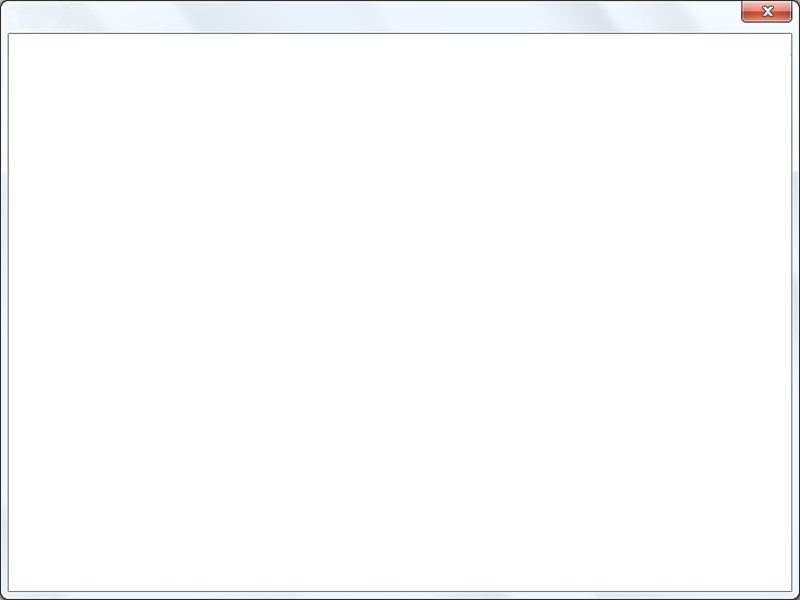
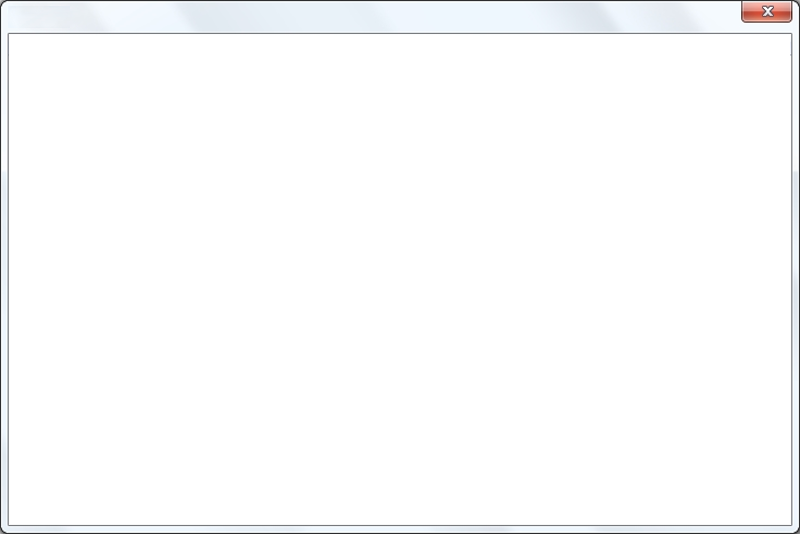
CSS and page behaviour changes

Changed region(s): [[0.0, 0.9588, 1.0, 1.0], [0.0312, 0.0, 1.0, 0.0899]]

diff --git a/www/inc/navi.css b/www/inc/navi.css
@@ -202,7 +202,7 @@ div
     background-color: #DEDEDE;
     background-image: url('../img/empty-w.png');
     z-index: 13;
-    height: 560px;
+    height: 494px;
     width: 760px;
     display: none;
     border-radius:10px;
@@ -279,8 +279,17 @@ h2 {
     border-spacing: 0; 
 }
 
-input, select
-{
-   font-size: 0.9em;
-} 
+@-moz-document url-prefix() {
+    input[type="text"], [type="password"] {
+      margin-bottom: 4px;
+      background-color:  #FEFEFE;
+    }
+
+    select {
+      padding: none;
+      margin: 2px;
+      background-color:  #FEFEFE;
+      margin-bottom: 4px;
+    }
+}
 

diff --git a/www/npanel.php b/www/npanel.php
@@ -61,6 +61,7 @@ var debug = false;
 var connection = true;
 var underConfig = false;
 var aisping = 1;
+var relayping = 1;
 var pollitem = 0;
 
 var stled = document.createElement("img");
@@ -110,7 +111,8 @@ function do_poll()
 
     if (valid == Cmd.StatusReport)
     {
-        if (underConfig == false) {
+        if (--relayping == 0) {
+            relayping++;
             setRelayStatus(val.relaySts);
         }
 
@@ -172,6 +174,7 @@ function dorelay()
     if (document.getElementById("relay4").checked == true) {
         rlbits |= (1 << 3);
     }
+    relayping = 5;
     send(Cmd.SensorRelay + "-" + rlbits);
 }
 
@@ -717,13 +720,13 @@ function dragElement(elmnt) {
                     <label title="New File:">
                         New:&nbsp;<input style="max-width:80%" name="uploaded_file" type="file" accept="text/plain"></label>
                     <label title="Sentences per second">Rate:&nbsp;<select name="nmea_rate">
-                          <option value="1">1</option>
-                          <option value="3">3</option>
-                          <option selected value="5">5</option>
-                          <option value="7">7</option>
-                          <option value="9">9</option>
-                          <option value="11">11</option>
-                          <option value="13">13</option>
+                          <option value="2">2</option>
+                          <option value="4">4</option>
+                          <option value="6">6</option>
+                          <option value="8">8</option>
+                          <option value="10">10</option>
+                          <option value="12">12</option>
+                          <option selected value="14">14</option>
                           <option value="24">24</option>
                           <option value="48">48</option>
                         </select>
@@ -746,7 +749,7 @@ function dragElement(elmnt) {
                           <option value="60">60</option>
                           <option value="120">120</option>
                           <option value="180">180</option>
-                        </select>&nbsp minutes                
+                        </select>&nbsp; minutes                
                     <input style="position:relative;left:10%;" type="button" title="Record NMEA stream to file now" value="Record" id="Record"<?php echo $NOSAVE==1? " disabled":""; ?> onclick="dosavenmea();">
                     
                 </td>
@@ -756,13 +759,13 @@ function dragElement(elmnt) {
                     <h2>Relay Settings</h2>
                     <input type="text" name="a2dserial" title="UK1104 Data Acquisition Module" id="a2dserial" maxlength="20" value="<?php echo $a2dserial ?>"><br>
                     <div id="relayContent">
-                        Relay-1<input type="checkbox" id="relay1" title="Relay 1 ON/OFF">
+                        Relay-1<input type="checkbox" id="relay1" onclick="relayping = 5;" title="Relay 1 ON/OFF">
                         <input type="text" title="Description" name ="relay1txt" id="relay1txt" size="14" value="<?php echo $a2dreltxt1 ?>"><br>
-                        Relay-2<input type="checkbox" id="relay2" title="Relay 2 ON/OFF">
+                        Relay-2<input type="checkbox" id="relay2" onclick="relayping = 5;" title="Relay 2 ON/OFF">
                         <input type="text" title="Description" name ="relay2txt" id="relay2txt" size="14" value="<?php echo $a2dreltxt2 ?>"><br>
-                        Relay-3<input type="checkbox" id="relay3" title="Relay 3 ON/OFF">
+                        Relay-3<input type="checkbox" id="relay3" onclick="relayping = 5;" title="Relay 3 ON/OFF">
                         <input type="text" title="Description" name ="relay3txt" id="relay3txt" size="14" value="<?php echo $a2dreltxt3 ?>"><br>
-                        Relay-4<input type="checkbox" id="relay4" title="Relay 4 ON/OFF">
+                        Relay-4<input type="checkbox" id="relay4" onclick="relayping = 5;" title="Relay 4 ON/OFF">
                         <input type="text" title="Description" name ="relay4txt" id="relay4txt" size="14" value="<?php echo $a2dreltxt4 ?>"><br>
                         <input type="button"<?php echo $NOSAVE==1? " disabled":""; ?> id="relayAction" value="Send settings" title="Send settings now" onclick="dorelay()">
                     </div>
@@ -798,6 +801,8 @@ function dragElement(elmnt) {
                 </td>
             </tr>
 <?php }?>
+            
+            <tr><td>&nbsp;</td></tr>
             <tr>
                 <td class="contentBox">
                     <h2 title="Save and restart server">Save configuration</h2>
